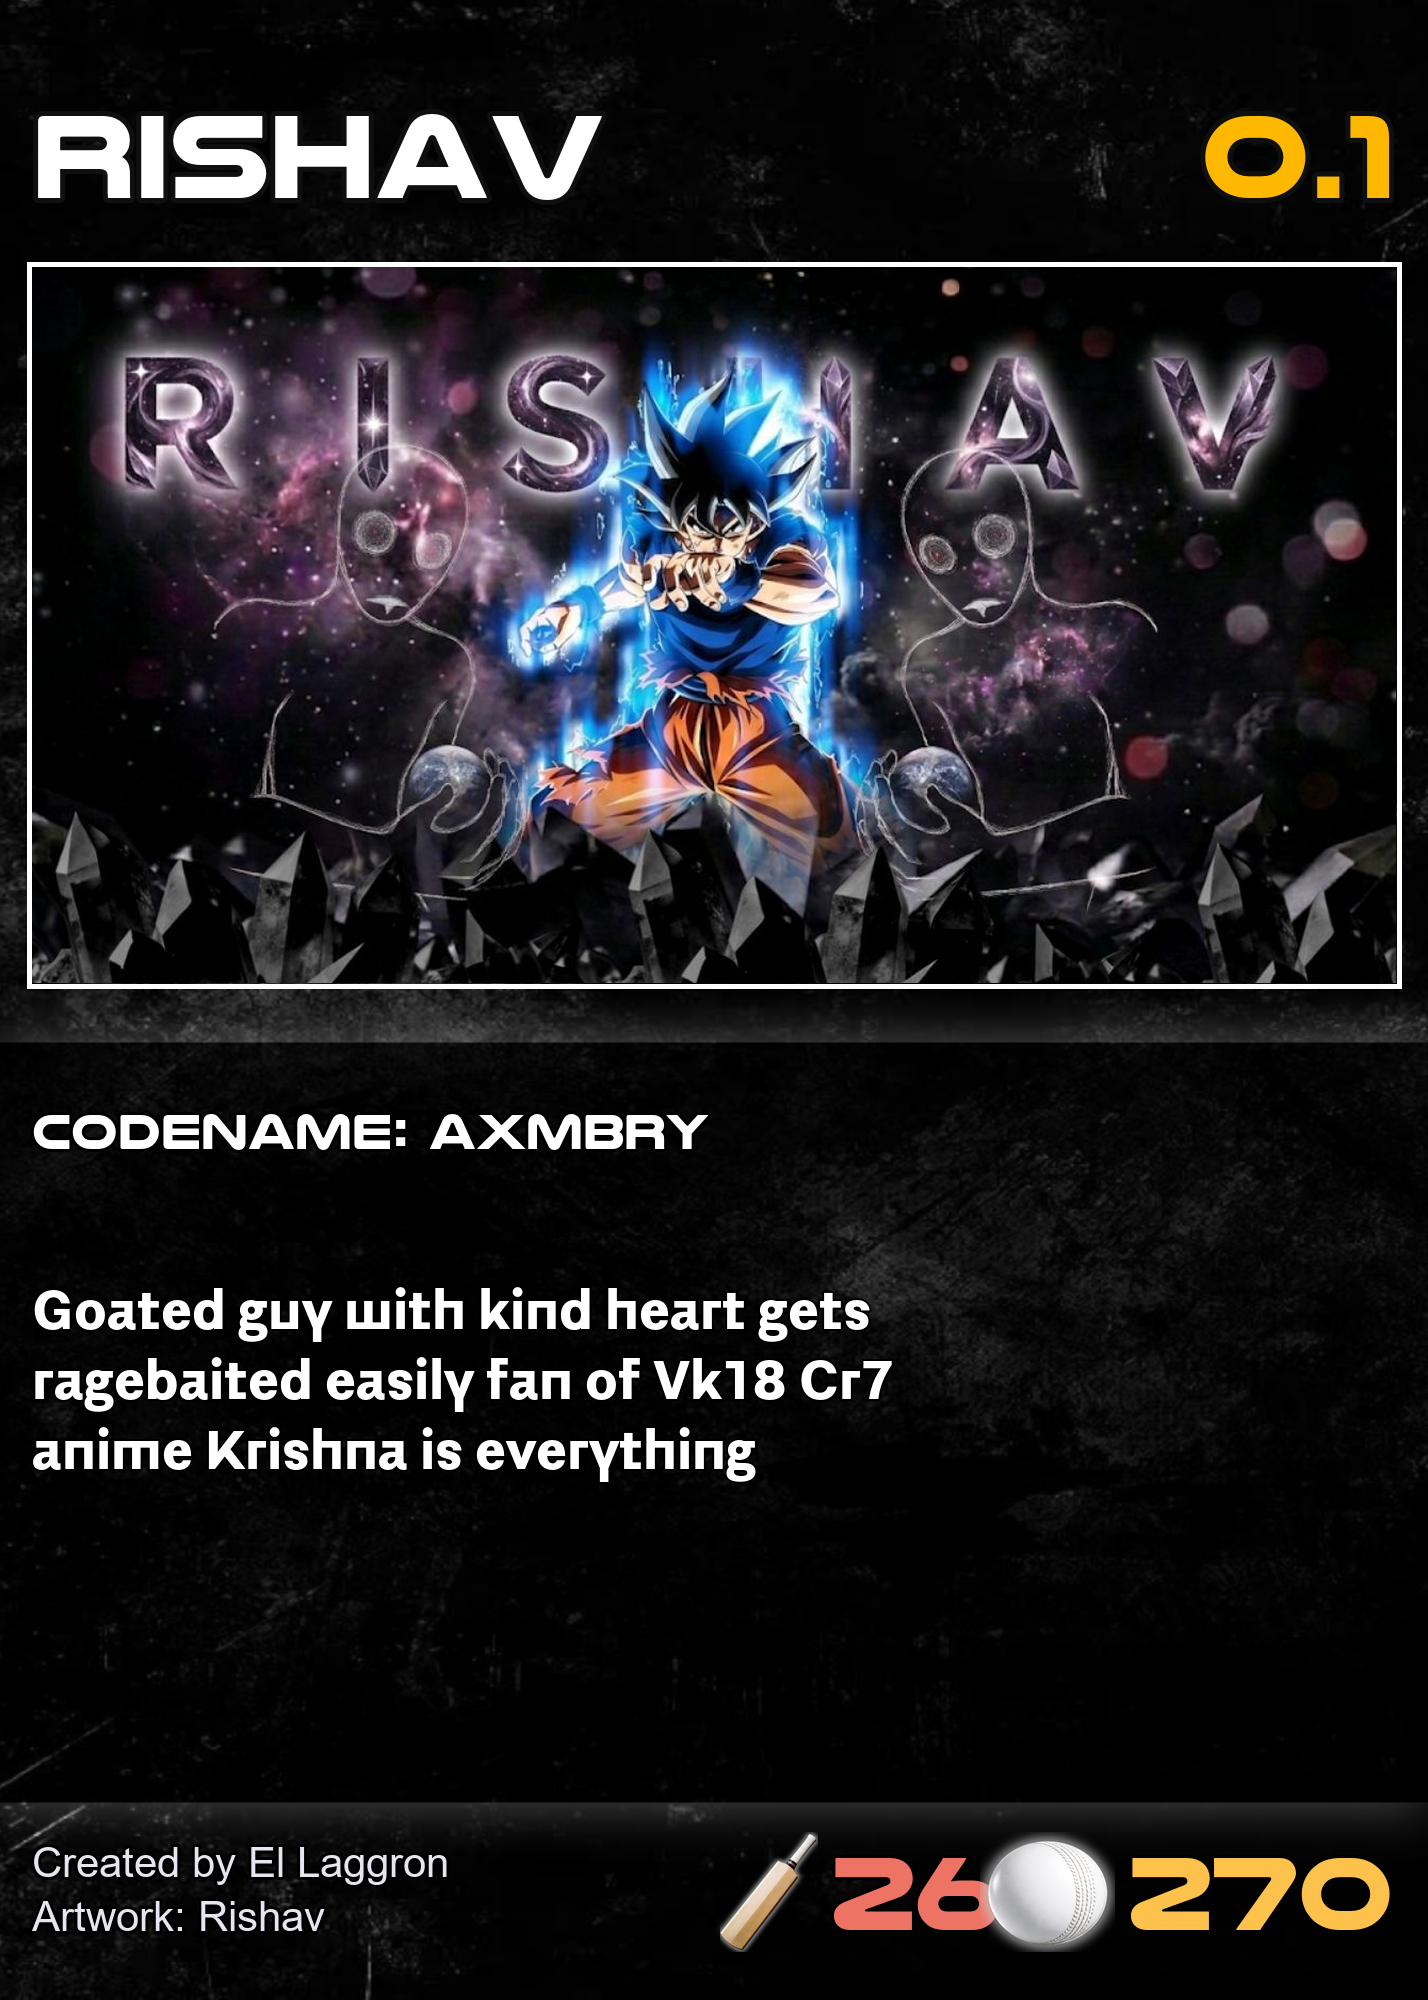
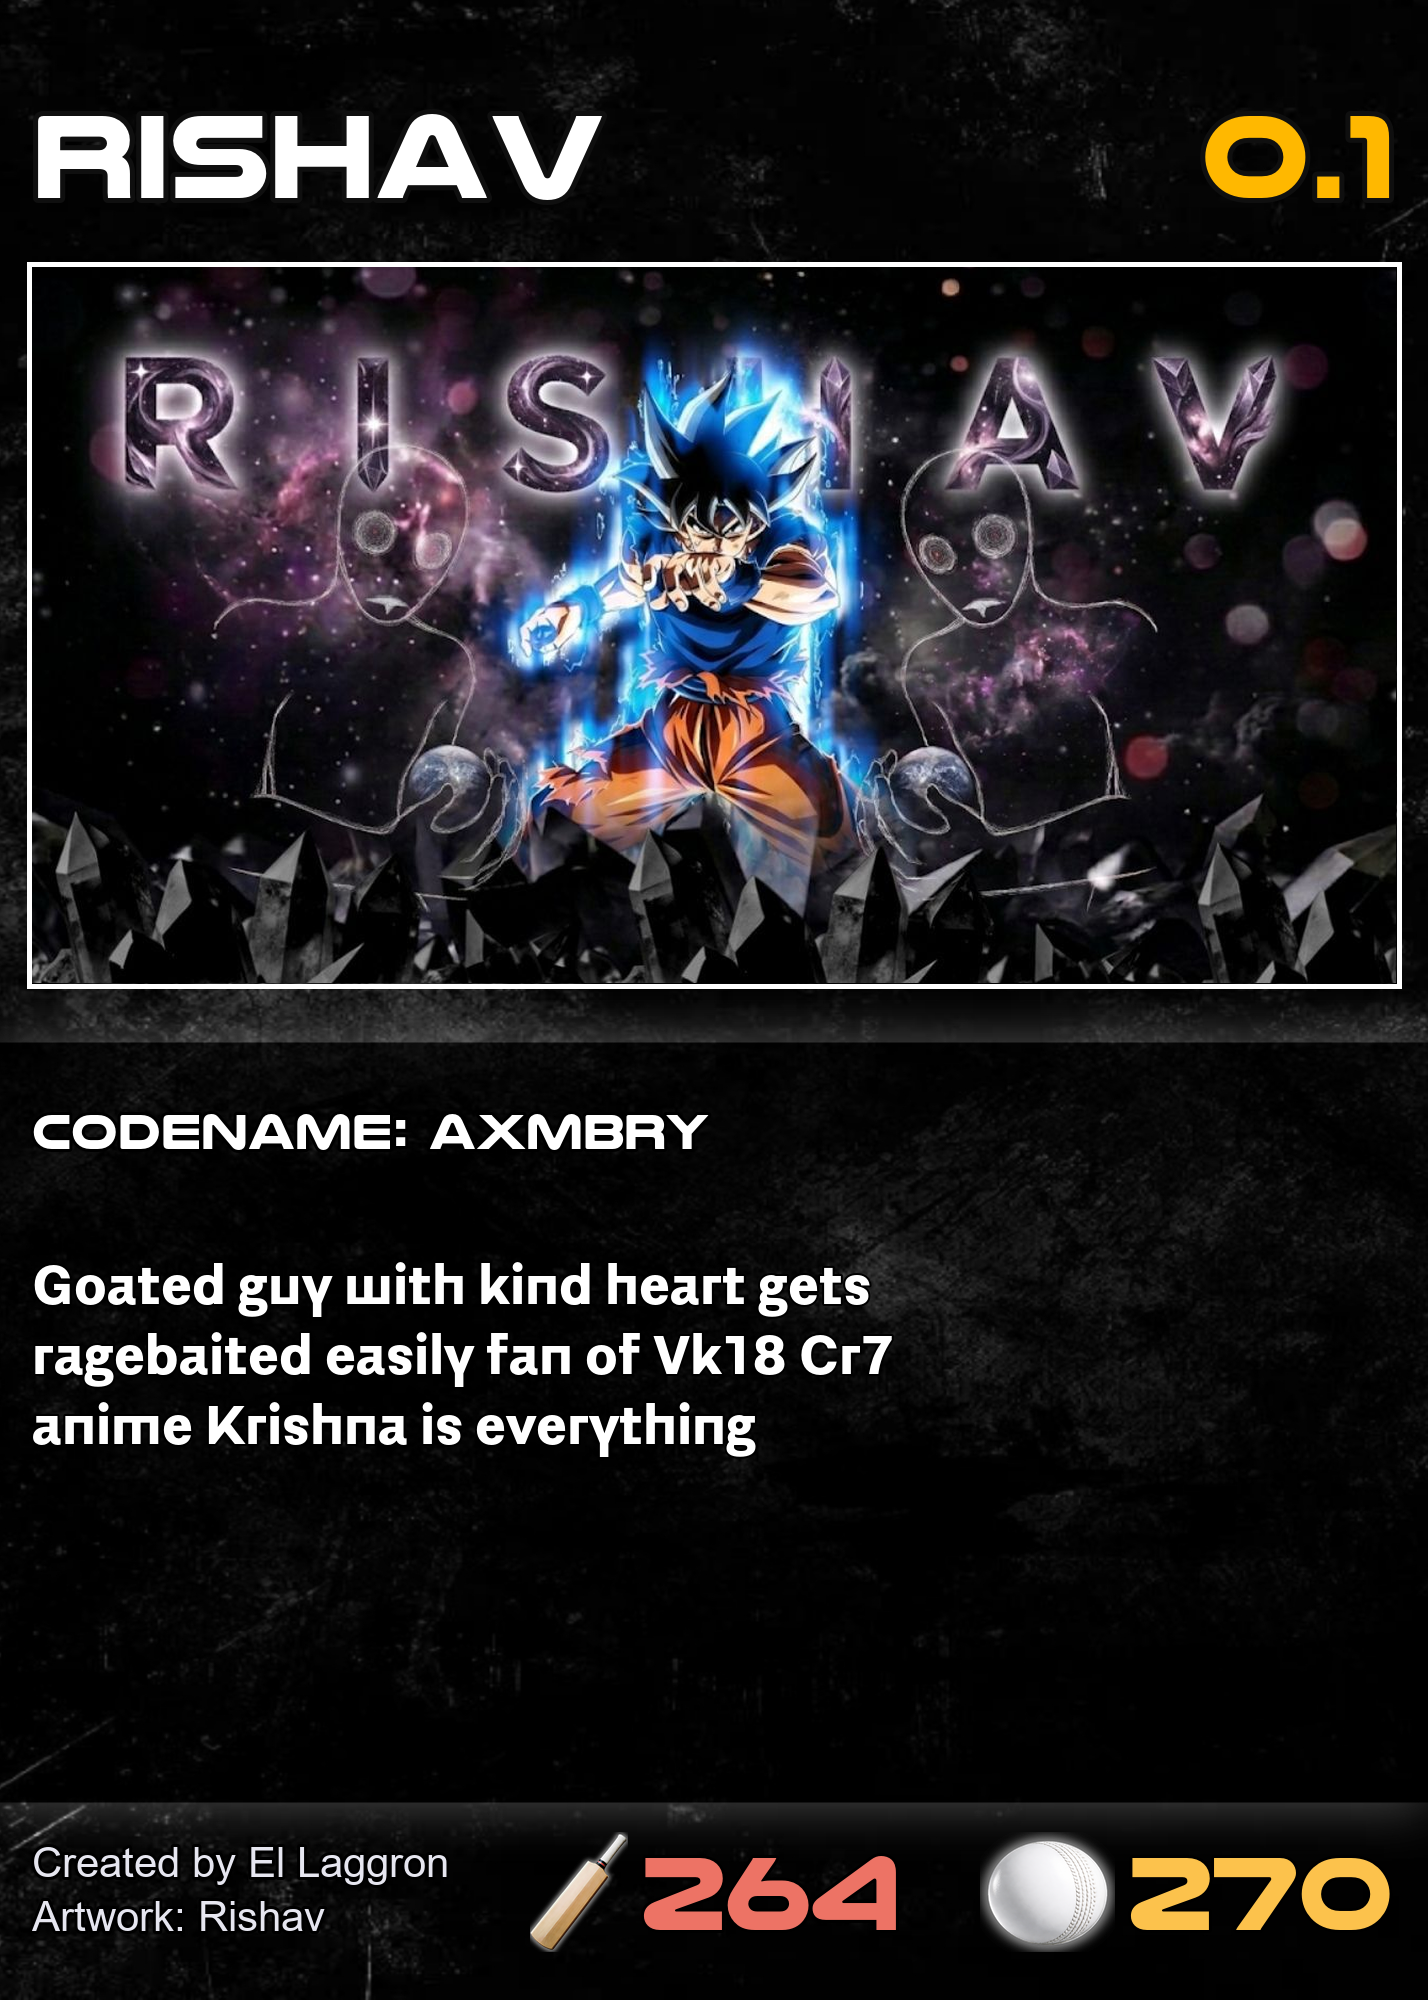
Increase vertical spacing for description text on cards
Update `DESC_Y` constant in `image_gen.py` to position description text 30px higher.

Replit-Commit-Author: Agent
Replit-Commit-Session-Id: 63eef69e-7baf-4389-9de5-37bcb6ae2cd5
Replit-Commit-Checkpoint-Type: full_checkpoint
Replit-Commit-Event-Id: 514d1f36-f34c-4ec4-b331-b728e1b238b8
Replit-Helium-Checkpoint-Created: true

Changed region(s): [[0.0, 0.62, 0.6162, 0.744], [0.3697, 0.899, 0.7087, 0.992]]

diff --git a/cricstar/core/image_generator/image_gen.py b/cricstar/core/image_generator/image_gen.py
@@ -361,7 +361,7 @@ def draw_premade_card(
 
     INFO_Y     = FRAME_BOTTOM + 36        # where text panel begins
     CODENAME_Y = INFO_Y + 82             # -35 px
-    DESC_Y     = CODENAME_Y + 149       # -25 px
+    DESC_Y     = CODENAME_Y + 119       # -30 px
 
     BAR_H  = 180                          # bottom stats bar height
     BAR_Y  = CARD_H - BAR_H              # 1820
